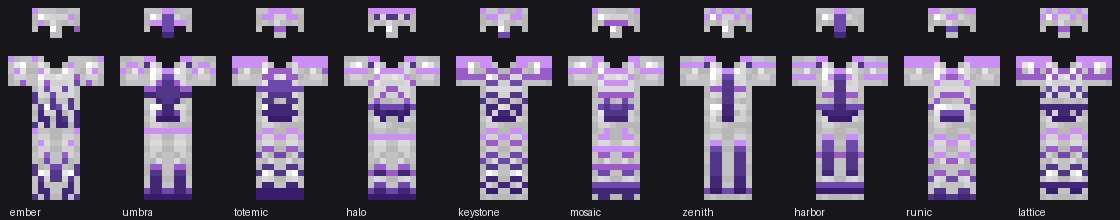
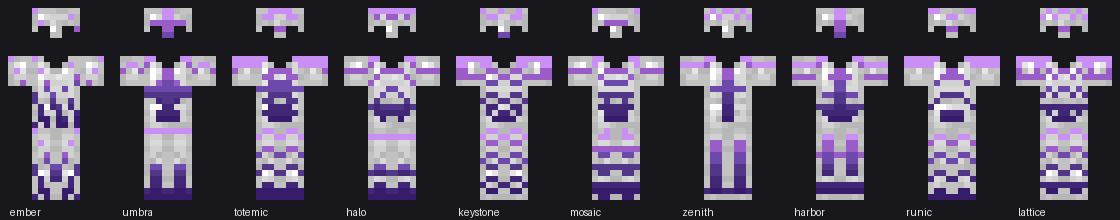
Smooth the tone transitions into one continuous gradient
The relief style set a lit pixel to the brightest step and the pixel right
under it to the fourth, so a two-pixel shape jumped three steps at once, and
the per-shape rules were not monotonic: a chest could run 4 then 2 then 5
down consecutive rows, which read as noise rather than shading.

Shading is now driven by a single lighting gradient spanning the 12-row
armour box, which every bitmap is measured against, so a helmet, chestplate,
leggings and boots share one fall of light. The ramp is spread at about one
step every two rows and the styles only nudge against it: relief by a third
of a step on edges, strata by holding flat across two-row courses, depth not
at all. Ember follows the same gradient, keeping its brighter flecks.

Neighbouring pixels within a face now differ by at most one step, down from
four, and the spread across the ramp evened out as a result: every pattern
uses all six steps, where some previously used three.

Shapes, coverage and ids are unchanged.

Claude-Session: https://claude.ai/code/session_01QCmVyYoj3XspZ6hoimFUp8

diff --git a/tools/generate_textures.py b/tools/generate_textures.py
@@ -38,6 +38,18 @@ T4, T3, T2, T1, T0 = 224, 192, 160, 128, 96
 # they are close enough to black that the trim stops reading.
 DEEPEST = 5
 
+# One lighting gradient spans the whole 12-row armour box and every bitmap is
+# shaded against it, so a helmet, chestplate, leggings and boots all share the
+# same fall of light. Spreading the ramp over those rows works out at about
+# one step every two rows, which is what keeps a transition gradual instead of
+# snapping from the highlight straight to a shadow.
+FADE_PER_ROW = DEEPEST / 11.0
+
+
+def ramp_index(row, accent=0.0):
+    """Step of the ramp for a row of the armour box, plus a small nudge."""
+    return max(0, min(DEEPEST, int(round(row * FADE_PER_ROW + accent))))
+
 W, H = 64, 32
 
 # Standard armour UV boxes: name -> (x, y, w, h)
@@ -119,16 +131,18 @@ def ember(face, u, v, fw, fh):
         threshold = 1
     if h >= threshold:
         return None
-    # Embers cool as they settle: deeper steps towards the hem, with the odd
-    # bright fleck left glowing.
-    return RAMP[min(DEEPEST, v // 3 + (0 if h == 0 else 1))]
+    # Embers cool as they settle, following the same gradient as the rest,
+    # with the odd fleck left glowing a step brighter.
+    return RAMP[ramp_index(v, -0.6 if h == 0 else 0.0)]
 
 
 # How each pattern is lit. All three keep a trim reading as one design while
 # spending several steps of the material's ramp instead of a single flat tone.
-#   relief  edges catch the light, undersides fall into shadow
-#   strata  each course of the design sits a step deeper than the last
-#   depth   a long fade from lit shoulders down to a dark hem
+# All three follow the same gradual top-to-bottom gradient and differ only in
+# how they ride it, so none of them jumps more than a step at a time.
+#   relief  nudged a little lighter on top edges, darker on undersides
+#   strata  held flat across each two-row course, stepping between courses
+#   depth   the bare gradient, the smoothest of the three
 STYLES = {
     "umbra": "relief",
     "totemic": "strata",
@@ -163,23 +177,22 @@ def shade(rows, style):
                 line.append(TONES[ch])
                 continue
 
-            lit = not filled(r - 1, c)
-            under = not filled(r + 1, c)
-
             if style == "strata":
-                # Clean two-row courses. No edge-lighting here: these designs
-                # are built from isolated one-pixel rows, where every pixel is
-                # an edge, which would flatten the banding back to one tone.
-                idx = r // 2
+                # Flat across each two-row course. No edge-lighting here:
+                # these designs are built from isolated one-pixel rows, where
+                # every pixel is an edge, which would only add noise.
+                idx = ramp_index(r // 2 * 2)
             elif style == "depth":
-                idx = r * 5 // max(1, h)
-                if lit:
-                    idx = max(0, idx - 1)
+                idx = ramp_index(r)
             else:  # relief
-                idx = 0 if lit else (3 if under else 2)
-                idx += r // 4
+                lit = not filled(r - 1, c)
+                under = not filled(r + 1, c)
+                # Deliberately gentle: a bigger nudge than this can put a
+                # highlight directly above a shadow and undo the gradient.
+                accent = -0.35 if lit else (0.35 if under else 0.0)
+                idx = ramp_index(r, accent)
 
-            line.append(RAMP[min(DEEPEST, idx)])
+            line.append(RAMP[idx])
         grid.append(line)
     return grid
 

diff --git a/README.md b/README.md
@@ -29,9 +29,15 @@ Vanilla ranges from 11% (shaper) to 63% (silence).
 Every pattern is shaded across five or six steps of the trim material's
 palette rather than painted in one flat tone, so a gold trim runs from a pale
 highlight down to a dark brown and an amethyst one from lilac to deep purple.
-Each pattern picks a lighting style: `relief` catches the light on edges and
-drops undersides into shadow, `strata` steps a shade deeper every two rows,
-and `depth` fades from lit shoulders to a dark hem.
+
+A single lighting gradient spans the whole armour box and every piece is
+shaded against it, so a helmet, chestplate, leggings and boots share one fall
+of light. The ramp is spread over those rows at about one step every two
+rows, and neighbouring pixels of a design never differ by more than a step,
+which is what keeps the fade gradual instead of snapping from highlight to
+shadow. Patterns differ only in how they ride that gradient: `relief` is
+nudged lighter on top edges and darker on undersides, `strata` holds flat
+across each two-row course, and `depth` follows the bare gradient.
 
 Templates are applied at a smithing table exactly like vanilla ones, work with
 all sixteen vanilla trim materials, and duplicate with the same
